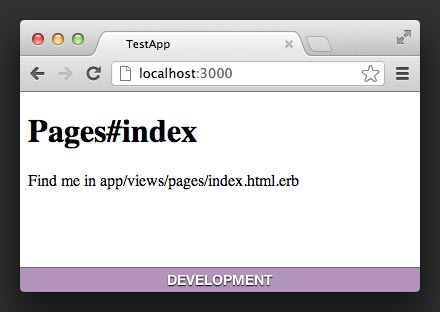
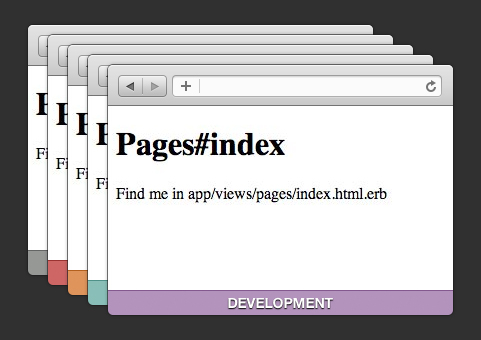
Update Screenshot and README.

Changed region(s): [[0.0295, 0.0577, 0.975, 0.9808]]

diff --git a/README.md b/README.md
@@ -44,7 +44,8 @@ Currently envb-rails will colorize the banners for the following environments, `
 
 ## Attribution
 
-Banner colors are *borrowed* from the Tomorrow Night theme in [chriskempson/tomorrow-theme](https://github.com/chriskempson/tomorrow-theme).
+- Banner colors are from [Chris Kempson's Tomorrow Night theme](https://github.com/chriskempson/tomorrow-theme).
+- Mini Browser in Screenshot is from [Didi Medina on Dribbble](http://dribbble.com/shots/430263-FREE-PSD-Mini-Browser).
 
 ----
 
